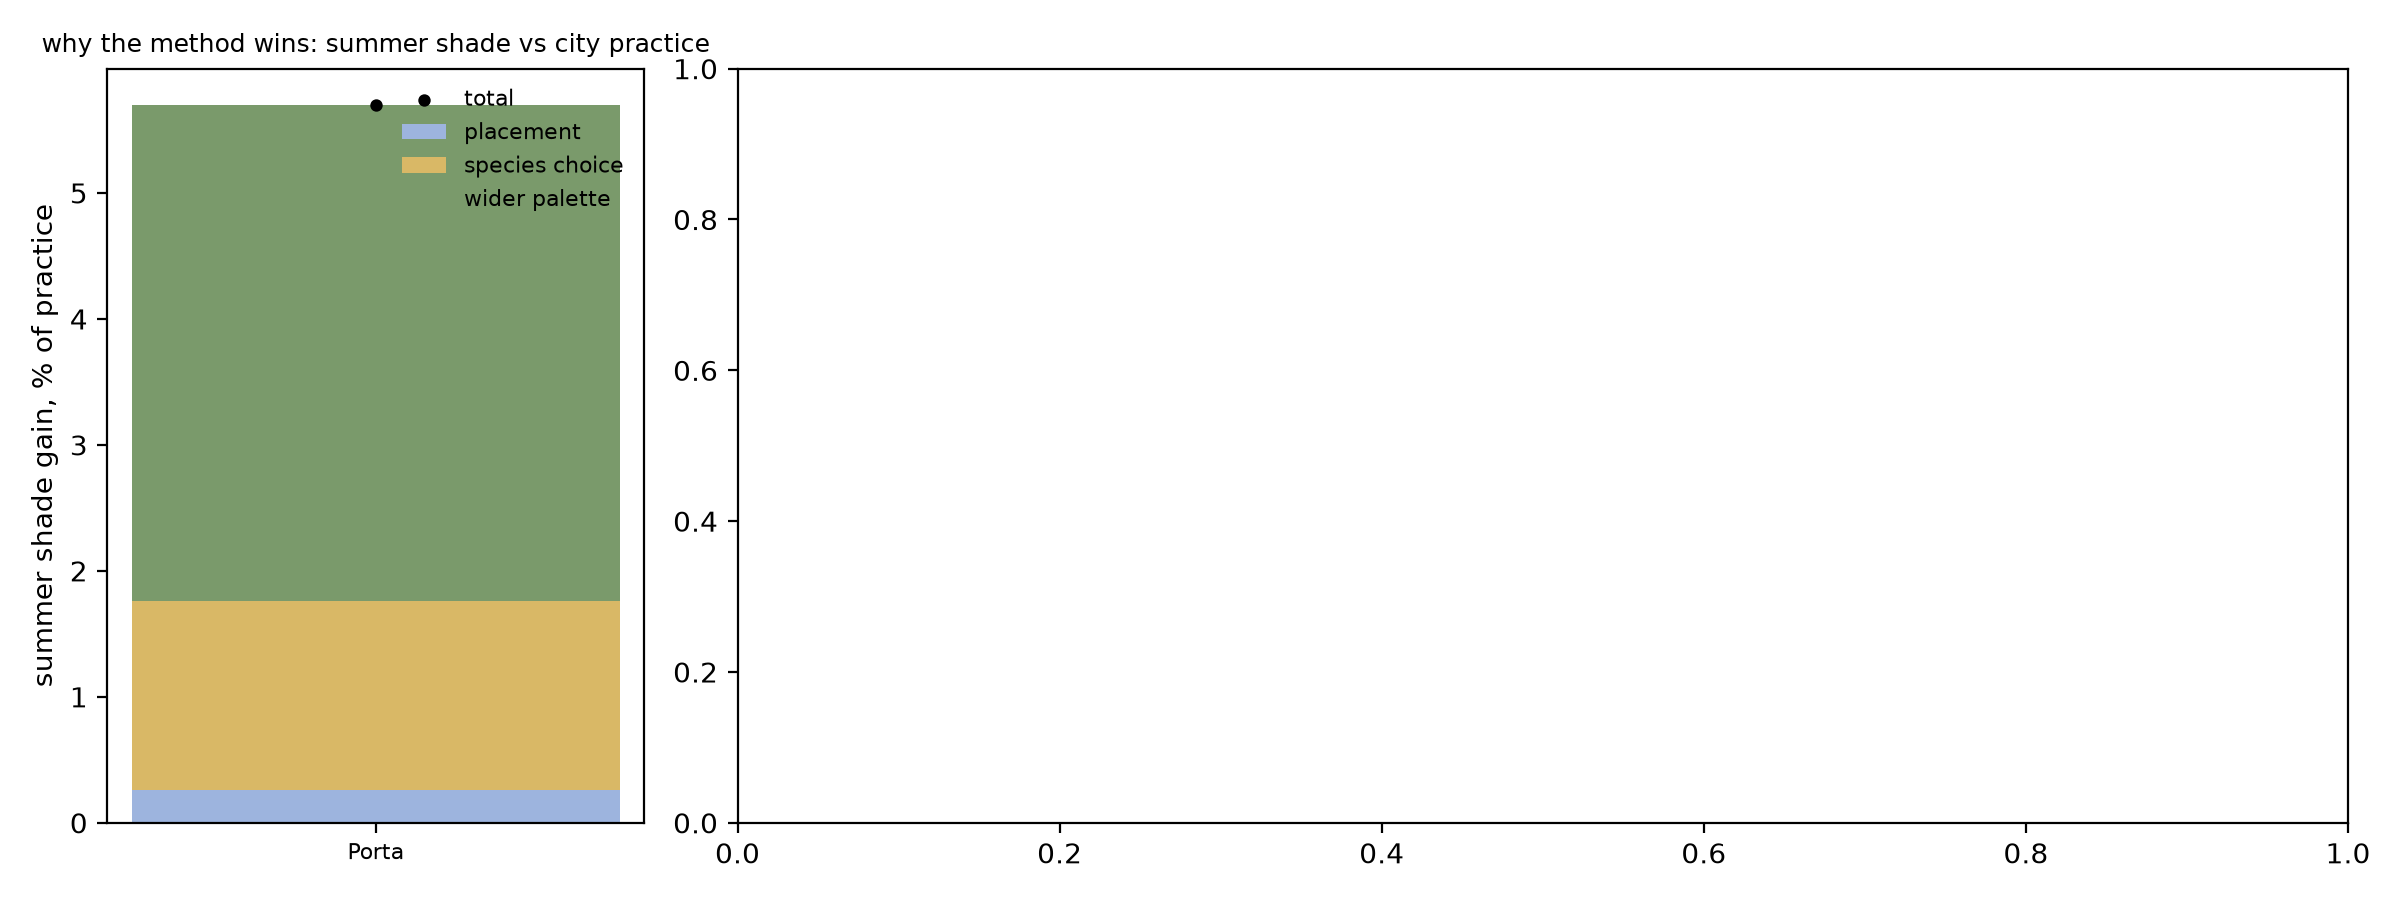
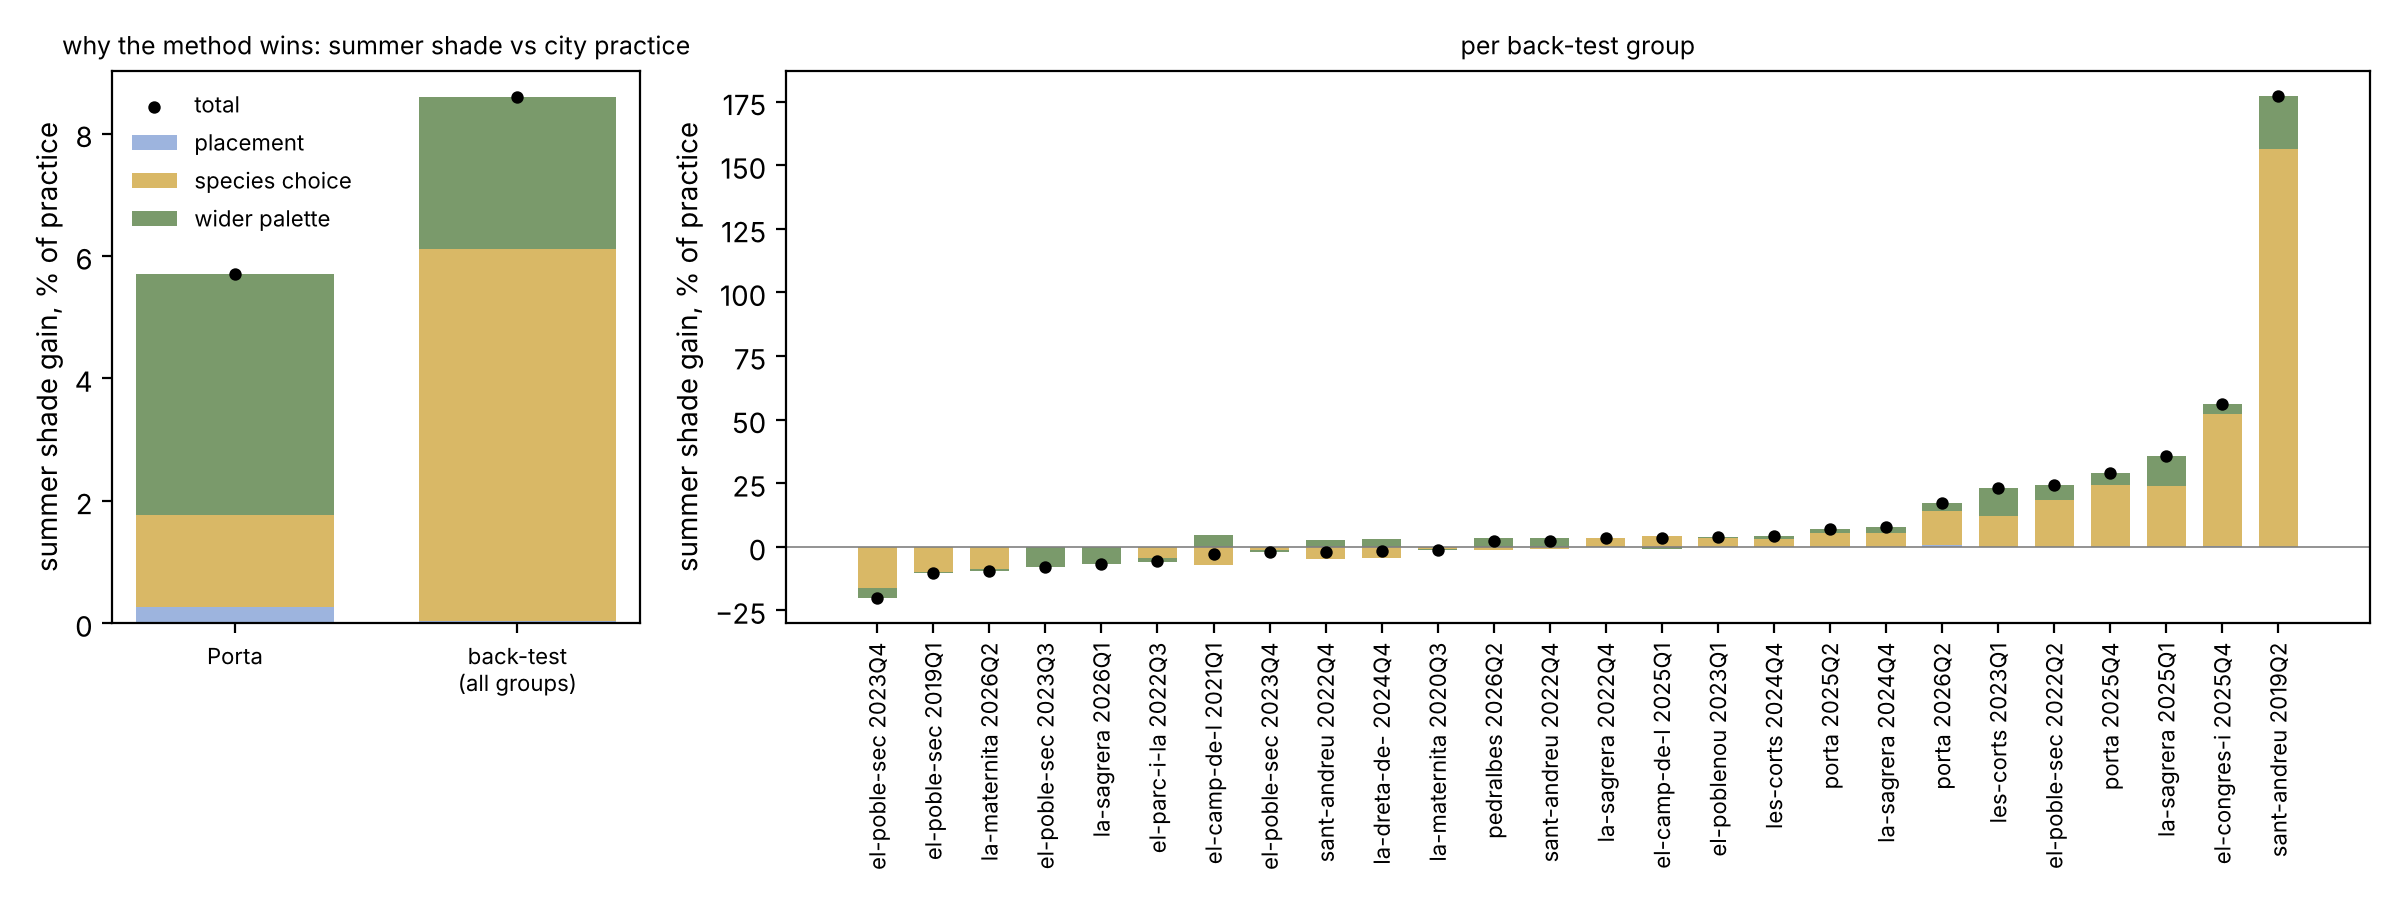
Gain decomposition: placement is n/a (not 0) in single-species back-test groups; n_species_practice column; figures redrawn
Claude-Session: https://claude.ai/code/session_01He8HgsPSfr4ooeAQQF2xot

Changed region(s): [[0.0, 0.0311, 1.0, 0.9644], [0.9688, 0.9333, 1.0, 0.9644]]

diff --git a/scripts/gain_decomposition.py b/scripts/gain_decomposition.py
@@ -6,6 +6,8 @@
   3 method_7   = the LP with the city's 7 replacement species (layout.CITY_PALETTE)
   4 method_30  = the LP with the Barcelona palette (the tool's default)
 Gains: placement = 2 − 1, species choice = 3 − 2, wider palette = 4 − 3; they add up to 4 − 1.
+In a back-test group planted with one species (18 of 26) placement cannot be measured (nothing to swap): it is left empty (NaN),
+not 0, and the bars draw it as 0.
 Every LP uses the balanced weights (0.50 summer, 0.25 winter, 0.25 hotspot runoff), normalised as layout.sweep does.
 Constraints: 2 keeps the practice's species counts as exact caps and the same fit rules as 4 (façade clearance + 2011 sizing
 rule; backtest_works.fit_matrix in the back-test), except that a position may always keep the species practice gave it, so
@@ -148,12 +150,14 @@ def backtest():
                    "method_30": palB.species.values[balanced(loc, pos, palB, sun, lit, p_mm, palB.cap.values, fitter(palB))].tolist()}
             kept = T[~gone & (T.flag == "ok")]
             getC = palC.set_index("species")[["crown_diam_m", "height_m", "crown_base_m", "lai"]]
-            r = dict(group=g, barri=slug, quarter=m.quarter_added.iloc[0], n=len(m))
+            r = dict(group=g, barri=slug, quarter=m.quarter_added.iloc[0], n=len(m), n_species_practice=len(set(city)))
             for v, sp in lay.items():
                 gt = (lambda s: getC.loc[s].to_dict()) if v == "method_7" else get
                 r.update({f"{k}_{v}": x for k, x in score(loc, trees_with(kept, pos, sp, gt), sun, lit, p_mm).items()})
                 r[f"top_{v}"] = pd.Series(sp).mode()[0]
             rows.append(gains(r))
+            if r["n_species_practice"] == 1:                 # one species: nothing to swap, placement is not measured here
+                r["gain_placement"] = np.nan
             print(f"{slug} {r['quarter']} n={r['n']}: " + ", ".join(f"{k} {r['gain_' + k.replace(' ', '_')]:+,.0f}" for k, _, _ in GAINS))
     df = pd.DataFrame(rows)
     df.round(2).to_csv(DB / f"gain_decomposition_backtest{TAG}.csv", index=False)
@@ -190,7 +194,7 @@ def figure(p, bt):
     a.legend(fontsize=8, frameon=False)
     if bt is not None:
         q = bt.assign(tot=bt.gain_total / bt.shade_summer_practice).sort_values("tot")
-        parts = {k: (100 * q[f"gain_{k.replace(' ', '_')}"] / q.shade_summer_practice).values for k in cols}
+        parts = {k: np.nan_to_num((100 * q[f"gain_{k.replace(' ', '_')}"] / q.shade_summer_practice).values) for k in cols}
         bars(b, [f"{s[:12]} {qq}" for s, qq in zip(q.barri, q.quarter)], parts, 100 * q.tot.values)
         b.set_title("per back-test group", fontsize=9)
     a.set_title("why the method wins: summer shade vs city practice", fontsize=9)
